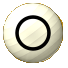
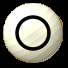
can change the size, add the current chess

diff --git a/src/Chess/ChessBoard.java b/src/Chess/ChessBoard.java
@@ -56,6 +56,10 @@ public class ChessBoard extends PApplet {
 		this.black=loadImage("black.PNG");
 		this.whiteCurrent=loadImage("white_current.png");
 		this.blackCurrent=loadImage("black_current.png");
+        white.resize((int)unit, (int)unit);
+        black.resize((int)unit, (int)unit);
+        whiteCurrent.resize((int)unit, (int)unit);
+        blackCurrent.resize((int)unit, (int)unit);
 		stones=new ArrayList<Stone>();
 		
 		for(int i=1; i<=size ;i++)
@@ -89,21 +93,27 @@ public class ChessBoard extends PApplet {
 		else if(nowStep%2==0)
 			judgeForbiddenPoint(x,y,'w');
 		
-		if(x>0 && y>0 && !isForbiddenPoint){
+		if(x>0 && y>0 && !isForbiddenPoint && points[x][y]=='n'){
 			if(nowStep%2==1){
 				fill(0);
-				ellipse(chessX+(getCoordinate()[0]-1)*unit, chessY+(getCoordinate()[1]-1)*unit,50,50);
+				ellipse(chessX+(getCoordinate()[0]-1)*unit, chessY+(getCoordinate()[1]-1)*unit,unit*(float)0.8,unit*(float)0.8);
 			}
 			else if(nowStep%2==0){
 				fill(255);
-				ellipse(chessX+(getCoordinate()[0]-1)*unit, chessY+(getCoordinate()[1]-1)*unit,50,50);
+				ellipse(chessX+(getCoordinate()[0]-1)*unit, chessY+(getCoordinate()[1]-1)*unit,unit*(float)0.8,unit*(float)0.8);
 			}
 		}
 		
 		
 		if(!stones.isEmpty()){
 			for(Stone stone: stones){
-				if(!stone.isDead){
+				if(stone.step==nowStep-1){
+					if(stone.color.equals("black"))
+						image(blackCurrent,chessX+(stone.x-1)*unit-unit/2, chessY+(stone.y-1)*unit-unit/2);
+					else if(stone.color.equals("white"))
+						image(whiteCurrent,chessX+(stone.x-1)*unit-unit/2, chessY+(stone.y-1)*unit-unit/2);
+				}
+				else if(!stone.isDead){
 					if(stone.color.equals("black"))
 						image(black,chessX+(stone.x-1)*unit-unit/2, chessY+(stone.y-1)*unit-unit/2);
 					else if(stone.color.equals("white"))
@@ -341,13 +351,17 @@ public class ChessBoard extends PApplet {
 				judgeChessDead(x,y,'b');
 				points[x][y]='b';
 				stones.add(new Stone(x,y,nowStep,"black",this,this));
-				information=information.concat(";B["+x+y+"]");
+				char ch_x=(char)((int)'a'+x-1);
+				char ch_y=(char)((int)'a'+y-1);
+				information=information.concat(";B["+ch_x+ch_y+"]");
 			}
 			else if(nowStep%2==0){
 				judgeChessDead(x,y,'w');
 				points[x][y]='w';
 				stones.add(new Stone(x,y,nowStep,"white",this,this));
-				information=information.concat(";W["+x+y+"]");
+				char ch_x=(char)((int)'a'+x-1);
+				char ch_y=(char)((int)'a'+y-1);
+				information=information.concat(";W["+ch_x+ch_y+"]");
 			}
 				nowStep++;
 				//System.out.println(information);
